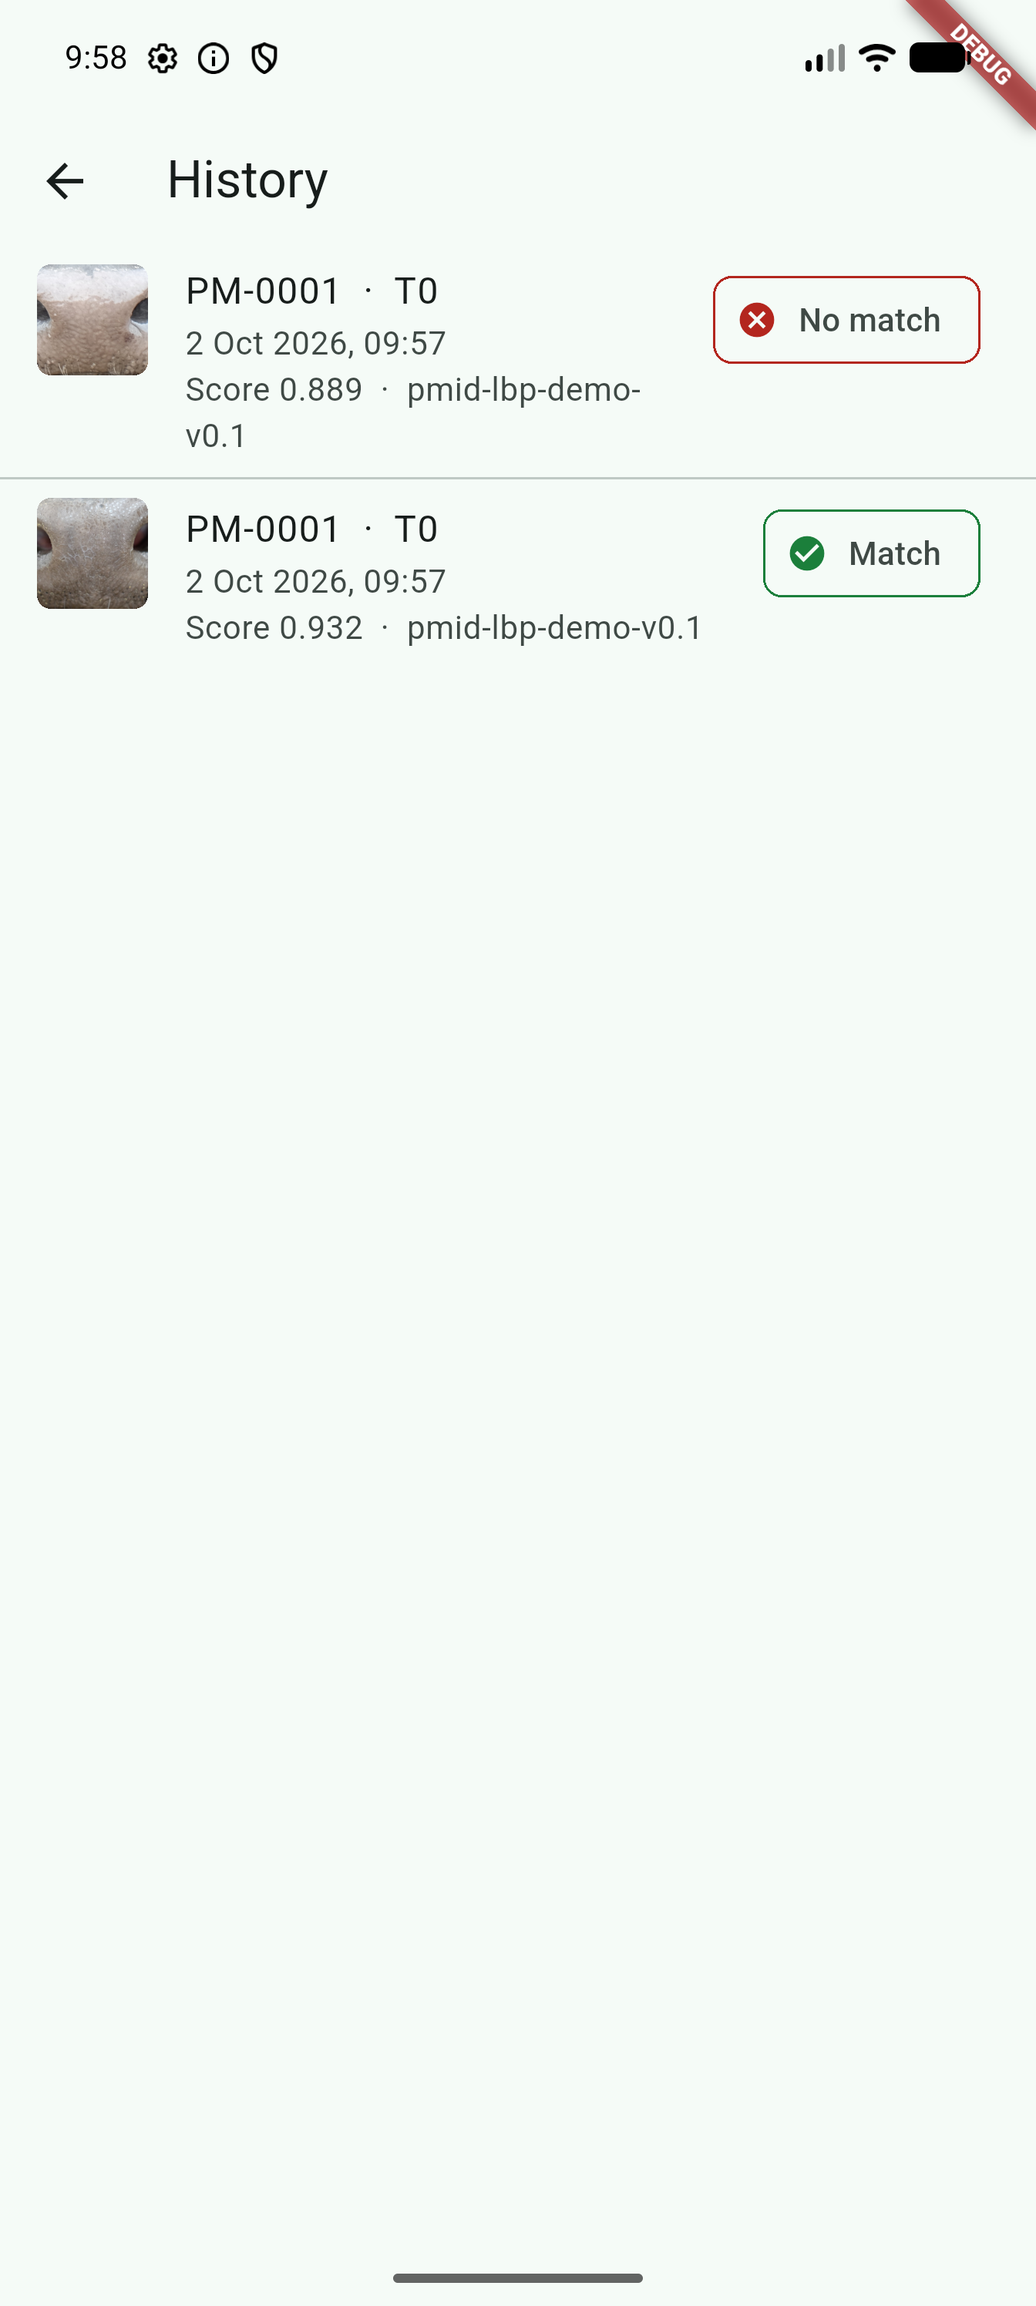
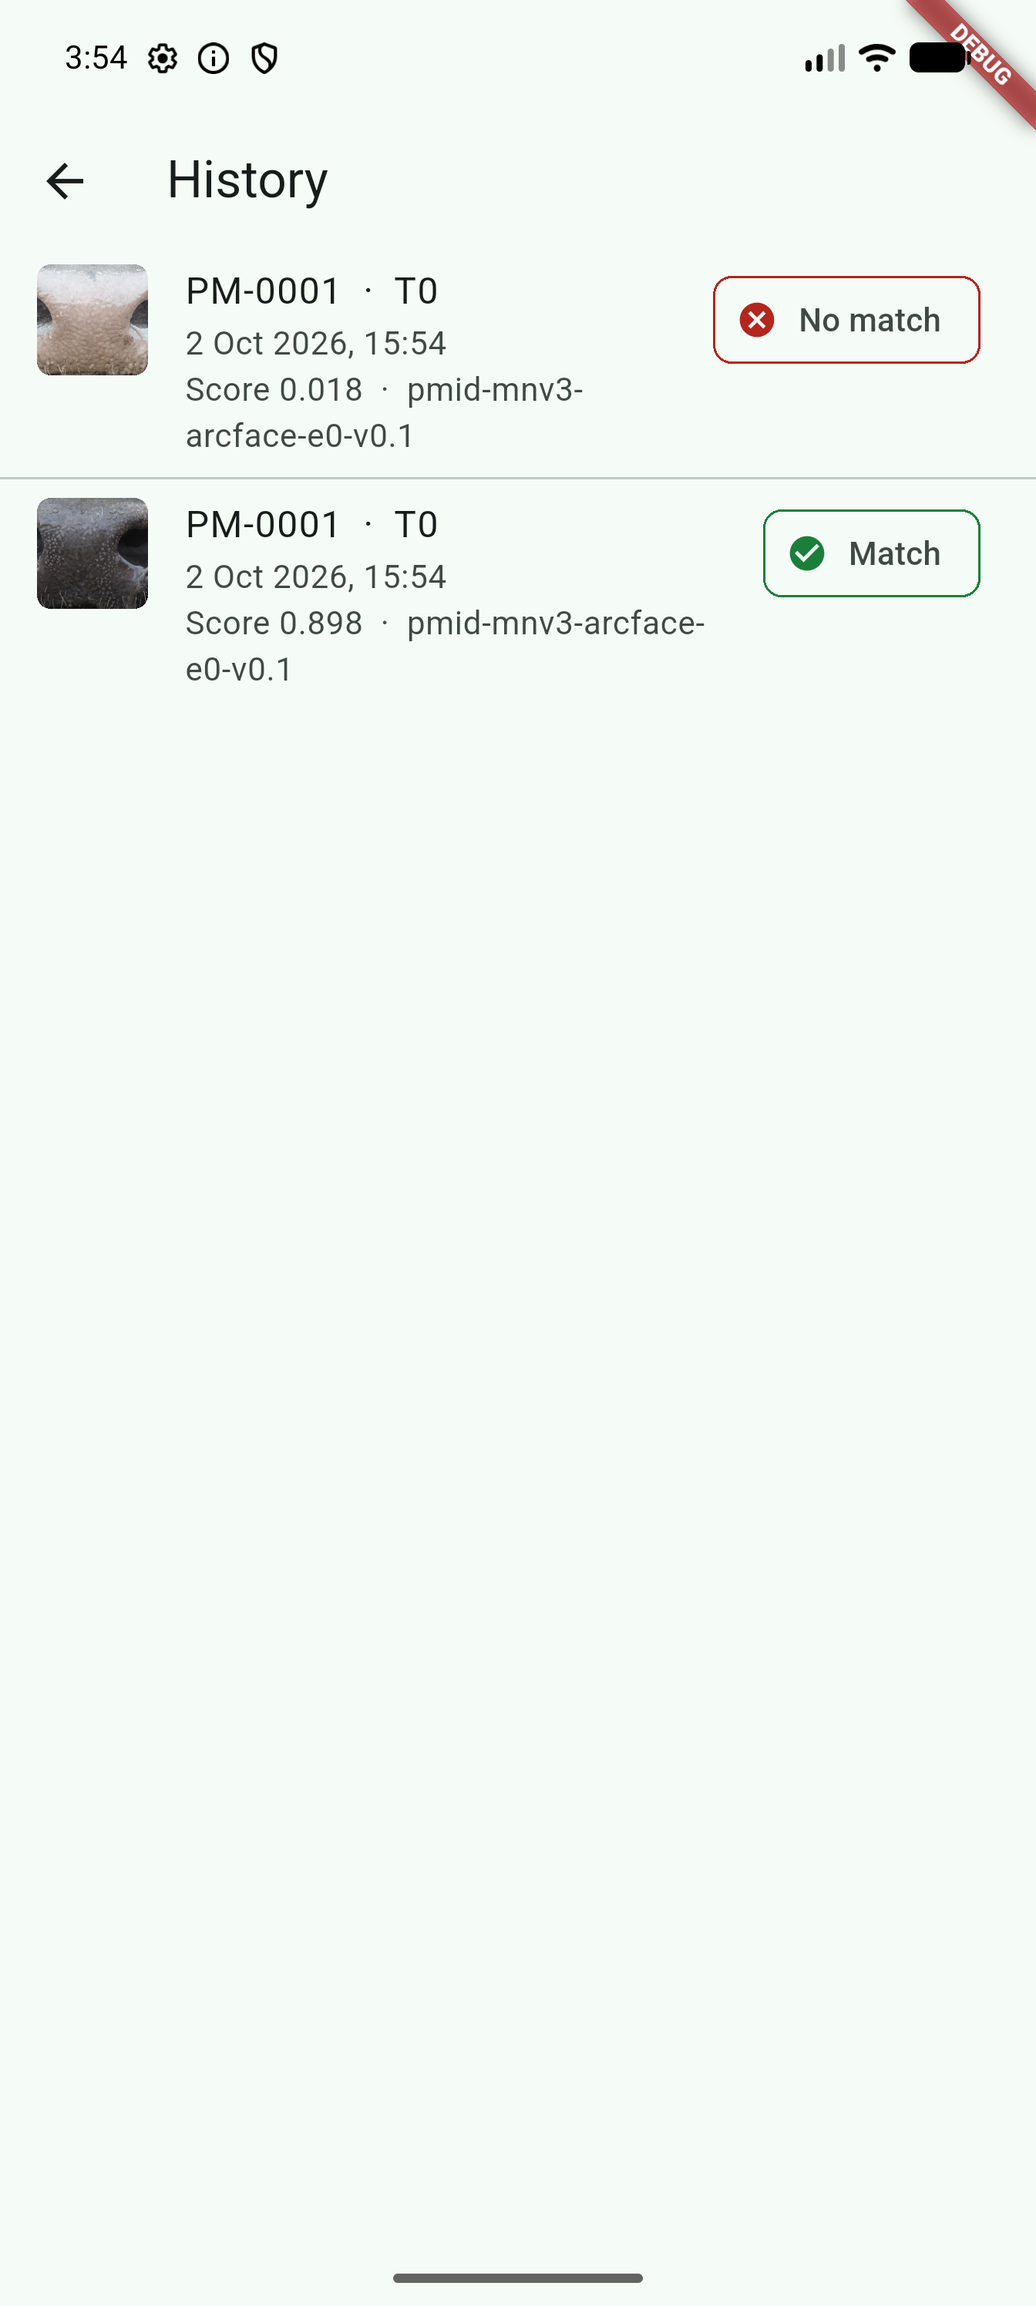
docs: update results and docs for the on-device model

diff --git a/README.md b/README.md
@@ -19,7 +19,8 @@ This repository contains the first working version of the software for that stud
 - Verification of a query image against a claimed animal, at time point T0, P0 or P1
 - Match / Review / No match decision from two thresholds, with the score, thresholds and versions shown
 - History of all results in local SQLite, each traceable to model, threshold and app versions
-- Clear labelling that the current encoder is a demonstration encoder, not the research model
+- The trained MobileNetV3-Large ArcFace model runs on the phone with TensorFlow Lite (LiteRT), fully offline; an LBP texture encoder is kept as a fallback
+- Clear labelling that the model was trained on public live-cattle images only and that post-mortem use has not been measured
 
 **Research pipeline (Python, `uv`)**
 
@@ -27,7 +28,7 @@ This repository contains the first working version of the software for that stud
 - Identity-disjoint train / dev / test split with leakage checks
 - Five verification models: SIFT, LBP, frozen ImageNet MobileNetV3-Large, and MobileNetV3-Large trained with softmax and with ArcFace
 - Thresholds set on dev animals, metrics on test animals, bootstrap confidence intervals over animals
-- Export of encoder settings and thresholds to the app, with a test that checks Python and Dart compute the same features
+- TFLite export with thresholds re-set on dev animals using the exact phone preprocessing, plus tests that check Python and Dart compute the same inputs and features
 
 ## Screenshots
 
@@ -58,7 +59,7 @@ flowchart LR
     end
 ```
 
-The app loads a manifest exported by the pipeline that names the encoder, its settings, the thresholds and the quality limits. `BiometricEncoder` is an interface. Today it is implemented by an LBP texture encoder in plain Dart. The trained MobileNetV3 model will be exported to TensorFlow Lite and added as a second implementation, without changes to the screens or storage. See [docs/architecture.md](docs/architecture.md).
+The app loads a manifest exported by the pipeline that names the encoder, its model file, the thresholds and the quality limits. `BiometricEncoder` is an interface with two implementations: `TfliteEncoder` runs the exported MobileNetV3-Large ArcFace model, and `LbpEncoder` is a plain-Dart fallback. Changing the model is a manifest and asset change; screens and storage stay the same. See [docs/architecture.md](docs/architecture.md).
 
 ## Repository structure
 
@@ -104,11 +105,15 @@ To run it without opening JupyterLab:
 uv run jupyter nbconvert --to notebook --execute --inplace ml/notebooks/01_e0_public_baseline.ipynb
 ```
 
-After a run, update the app manifest from the new results:
+The trained phone model is already in `mobile/assets/model/`. To rebuild it from scratch:
 
 ```bash
-uv run python ml/scripts/export_app_manifest.py
+uv run python ml/scripts/train_arcface.py         # retrains E0 ArcFace, checks it equals the notebook, saves weights
+uv run --script ml/scripts/export_tflite.py       # converts to TFLite in its own pinned environment, re-sets dev thresholds
+uv run python ml/scripts/export_app_manifest.py   # writes the app manifest (add --encoder lbp for the fallback)
 ```
+
+`export_tflite.py` runs in a separate environment because the converter (litert-torch 0.9.4) needs PyTorch below 2.14. The first run downloads about 1 GB of converter dependencies.
 
 Checks:
 
@@ -139,6 +144,7 @@ Checks:
 cd mobile
 flutter analyze
 flutter test
+flutter test integration_test    # needs a running emulator or phone; checks on-device model output and timing
 ```
 
 ## Initial results
@@ -148,7 +154,7 @@ Experiment E0, public live-cattle data only. 52 test animals never used for trai
 | Model | ROC-AUC | EER [95% CI] | TAR at dev FAR 1% threshold [95% CI] | Realised test FAR |
 |---|---|---|---|---|
 | SIFT matching | 0.968 | 7.7% [3.8, 10.2] | 75.1% [61.6, 87.1] | 0.18% |
-| LBP (runs in the app today) | 0.936 | 11.2% [6.3, 16.4] | 78.4% [69.2, 86.8] | 0.50% |
+| LBP (app fallback) | 0.936 | 11.2% [6.3, 16.4] | 78.4% [69.2, 86.8] | 0.50% |
 | MobileNetV3-Large, ImageNet, no training | 0.968 | 6.6% [3.6, 10.2] | 88.5% [82.1, 94.1] | 0.50% |
 | MobileNetV3-Large, softmax | 0.993 | 2.5% [0.9, 5.7] | 95.6% [91.3, 99.0] | 0.89% |
 | **MobileNetV3-Large, ArcFace (proposed)** | **0.994** | **2.2% [0.7, 5.5]** | **96.5% [92.5, 99.5]** | 0.87% |
@@ -162,12 +168,20 @@ What these numbers mean:
 
 Two independent full runs gave identical numbers. Details, figures and error analysis are in the notebook and [ml/experiments/README.md](ml/experiments/README.md).
 
+**The model on the phone.** The ArcFace model was exported to TensorFlow Lite (14.0 MB, float32) and scored again on the same dev and test animals with the exact resize the app performs. Thresholds for the app were set on dev animals with this pipeline.
+
+| | ROC-AUC | EER | TAR at dev FAR 1% threshold | Realised test FAR | TAR at dev FAR 0.1% | Realised test FAR |
+|---|---|---|---|---|---|---|
+| ArcFace, TFLite with phone preprocessing | 0.993 | 2.0% | 96.3% | 0.94% | 93.0% | 0.19% |
+
+On the Android emulator, the on-device output matched the laptop's TFLite output (cosine 1.000000 on a fixed test pattern), and one embedding took about 22 ms after a 71 ms first run. The emulator runs on a fast laptop, so this is not the timing of a low-cost phone; that is measured in the on-device tests of the study.
+
 ![ROC and DET curves](docs/figures/e0_roc_det.png)
 
 ## Deployment plan
 
-1. **Now: local offline prototype.** The Flutter app runs on Android with no network. Images, templates and results stay in app storage and SQLite. Encoder: LBP demonstration encoder with E0 dev thresholds.
-2. **Next: on-device research model.** Export the MobileNetV3-Large ArcFace model to TensorFlow Lite with reduced-precision weights, add it as a second `BiometricEncoder`, and ship it with a new manifest. Measure model size, inference time and agreement with desktop scores on both study phones.
+1. **Now: local offline prototype.** The Flutter app runs on Android with no network. Images, templates and results stay in app storage and SQLite. Encoder: the E0 ArcFace MobileNetV3-Large model in TensorFlow Lite, with thresholds set on E0 dev animals.
+2. **Next: on-device tests on the study phones.** Measure inference time on the two low-cost Android phones, try reduced-precision weights and report any change in scores, and replace the model with one trained on the study's development animals.
 3. **Detector.** Label muzzle and face boxes on pilot images and train a small YOLO detector, so the app crops the biometric region instead of using the centre square.
 4. **Optional synchronisation.** A small FastAPI and PostgreSQL service to collect records from the study phones and serve new model versions, only if the field study needs it. The app must keep working offline.
 5. **Research validation.** After ethics clearance and a facility agreement: pilot, then paired live and post-mortem capture, and experiments E1 to E7 on held-out animals. Thresholds will be set again on the study data.
@@ -180,14 +194,14 @@ Demonstrated:
 
 - the full offline capture, quality check, enrolment, verification and history workflow on Android
 - a leakage-controlled live-to-live evaluation on public data with measured, reproducible metrics
-- that the phone computes the same features as the research pipeline
+- the trained ArcFace model running on the phone, with the same output as on the laptop
 
 Not demonstrated:
 
 - any post-mortem result. No post-mortem images exist yet.
 - the face comparator, cross-phone effects or time since slaughter
 - performance on Rwandan cattle or smartphone images
-- the research model running on the phone; the app uses the weaker LBP demonstration encoder
+- on-device speed on a low-cost phone; timings so far come from an emulator on a laptop
 - automatic muzzle detection
 - suitability for insurance, traceability or any operational decision
 
@@ -202,6 +216,7 @@ The duplicate-identity cleaning found 7 of the 19 duplicates reported by BC et a
 | Baselines: SIFT, generic features, softmax MobileNetV3 | SIFT, frozen ImageNet MobileNetV3 and softmax MobileNetV3 run. DINOv2 is planned for the pilot sanity check |
 | MobileNetV3-Large + ArcFace, k-image templates, cosine similarity | Implemented and trained on public data; k = 1, 3, 5 reported |
 | Match / Review / No match from tau(FAR 1%) and tau(FAR 0.1%) | Implemented in Python and in the app |
+| On-device inference with TensorFlow Lite | E0 ArcFace model running in the app via LiteRT; output matches the laptop on the emulator; timing on low-cost study phones pending |
 | Offline Flutter app, SQLite, model versioning (FR1 to FR7, NFR5 to NFR8) | Implemented; export (FR3) and sync (FR8) are later increments |
 | E0 public-data baseline | Done |
 | E1 to E7 paired experiments | Planned, need field data |

diff --git a/docs/architecture.md b/docs/architecture.md
@@ -54,11 +54,16 @@ Analysis runs in a background isolate so the UI does not freeze while a photo is
 
 ### Inference layer
 
-`BiometricEncoder` is the seam between the app and the model. The current implementation, `LbpEncoder`, is a uniform LBP texture descriptor written in plain Dart. It is a **demonstration encoder**: it lets the full offline workflow run today, but it is not the research model, and `isResearchModel` returns false so the result screen says so.
+`BiometricEncoder` is the seam between the app and the model. It has two implementations:
 
-The research model (MobileNetV3-Large trained with ArcFace) will be exported to TensorFlow Lite and added as a second implementation of the same interface. The manifest names the encoder type, so switching is a manifest and asset change. Screens, controller and storage do not change (NFR7). Templates are stored with the model version, and the repository only compares a query with templates made by the same model, because embeddings from different models are not comparable.
+- `TfliteEncoder` runs `pmid-mnv3-arcface-e0-v0.1.tflite`, the MobileNetV3-Large ArcFace model exported by `ml/scripts/export_tflite.py`, through the `flutter_litert` plugin (LiteRT, formerly TensorFlow Lite) on the CPU. ImageNet normalisation is built into the model, so the app only resizes the whole image to 224 x 224 with an antialiased bilinear filter and passes raw RGB values. The interpreter is created inside the analysis isolate from the model bytes, because an interpreter cannot be moved between isolates.
+- `LbpEncoder` is a uniform LBP texture descriptor in plain Dart. It is kept as a fallback (`export_app_manifest.py --encoder lbp`) and is not the research model, so its results say so.
 
-The Dart image operations, quality measures and LBP encoder mirror `ml/src/postmortemid/imageops.py`, `quality.py` and `lbp.py`. `mobile/test/parity_test.dart` checks that both implementations produce the same numbers on a fixture generated by `ml/scripts/export_parity_fixture.py`. This is why the thresholds measured in the notebook are valid for the phone.
+The manifest names the encoder type and model file, so switching is a manifest and asset change. Screens, controller and storage do not change (NFR7). Templates are stored with the model version, and the repository only compares a query with templates made by the same model, because embeddings from different models are not comparable.
+
+The Dart image operations, quality measures and LBP encoder mirror `ml/src/postmortemid/imageops.py`, `quality.py` and `lbp.py`. `mobile/test/parity_test.dart` checks that both produce the same numbers, including the CNN input resize, on a fixture generated by `ml/scripts/export_parity_fixture.py`. `mobile/integration_test/model_parity_test.dart` runs on a device or emulator and checks that the on-device TFLite output matches the laptop's for a fixed test pattern, and prints the inference time. Together these are why the dev thresholds computed on the laptop are valid on the phone.
+
+Camera photos are cropped to the square guide area before analysis. Until a detector finds the muzzle, this makes a phone photo closer to the muzzle crops the model was trained on.
 
 ### Local persistence
 
@@ -85,7 +90,7 @@ No owner or farmer data are stored. Animals with linkage status *excluded* are n
 | `verification.py` | Enrolment and query roles, templates, genuine and impostor scoring, Rank-1, open-set rejection |
 | `metrics.py` | ROC-AUC, EER, thresholds at a target FAR, TAR, FAR, FRR, bootstrap intervals over animals |
 | `models.py`, `training.py` | MobileNetV3-Large embedder, ArcFace and softmax heads, training loop |
-| `sift.py`, `lbp.py`, `quality.py`, `imageops.py` | Baselines, demo encoder and quality measures |
+| `sift.py`, `lbp.py`, `quality.py`, `imageops.py` | Baselines, LBP fallback encoder, quality measures and the shared image resize |
 | `e0.py` | The E0 experiment: scoring, calibration on dev, reporting on test |
 
 The environment is managed with `uv`, and `uv.lock` pins every dependency.

diff --git a/docs/model.md b/docs/model.md
@@ -50,19 +50,29 @@ Every verification stored by the app records three versions:
 
 | Version | Example | Meaning |
 |---|---|---|
-| Model | `pmid-lbp-demo-v0.1` | Encoder that produced the embeddings |
-| Threshold file | `e0-lbp-dev-v0.1` | Where tau(FAR 1%) and tau(FAR 0.1%) came from |
+| Model | `pmid-mnv3-arcface-e0-v0.1` | Encoder that produced the embeddings |
+| Threshold file | `e0-arcface-tflite-dev-v0.1` | Where tau(FAR 1%) and tau(FAR 0.1%) came from |
 | App | `0.1.0+1` | Flutter build |
 
 A template can only be compared with a query from the same model version.
 
 ## What runs on the phone today
 
-The app currently uses `pmid-lbp-demo-v0.1`, a uniform LBP histogram descriptor (64 x 64 grayscale, 4 x 4 grid, 944 dimensions), because the MobileNetV3 model has not yet been exported to TensorFlow Lite. LBP is a real, measured baseline in the notebook, and its thresholds come from the same E0 dev animals, but it is weaker than the CNN models and it is **not** the research model. The app says this on the home screen and on every result.
+The app runs `pmid-mnv3-arcface-e0-v0.1.tflite`, the ArcFace model above, exported to TensorFlow Lite (LiteRT) in float32 (14.0 MB). ImageNet normalisation is part of the exported model. The phone resizes the whole image to 224 x 224 with an antialiased bilinear filter, the same filter PIL uses and close to the training resize.
+
+The export was checked in three steps:
+
+1. TFLite against PyTorch on 50 images: cosine similarity 1.000000 at the lowest.
+2. Dev and test animals scored again with the TFLite model and the phone's resize. Thresholds for the app (tau(FAR 1%) = 0.399, tau(FAR 0.1%) = 0.541) come from dev animals. On test animals: ROC-AUC 0.993, EER 2.0%, TAR 96.3% at a realised FAR of 0.94%, close to the notebook's PyTorch numbers.
+3. On the Android emulator, the on-device embedding of a fixed test pattern matched the laptop's (cosine 1.000000). One embedding took about 22 ms after a 71 ms first run; this is an emulator on a laptop, not a low-cost phone.
+
+A first export used an area-average resize instead. It repeats pixels when enlarging, and since half the public crops are smaller than 224 px, the inputs looked different from training: test EER rose to 5.2% and the realised FAR at the 1% target was 3.5%. Matching the training resize fixed this. Both runs are in `ml/experiments/README.md`.
+
+The LBP histogram encoder (`pmid-lbp-demo-v0.1`) is still in the app as a fallback and can be selected with `export_app_manifest.py --encoder lbp`.
 
 ## Current limitations
 
 - All measurements are live-to-live on public data. Post-mortem performance is unknown.
-- No detector yet; the app uses the centre square of the photo, which the camera guide asks the user to fill with the muzzle.
-- The ArcFace model is trained and evaluated in Python but not yet on the phone.
+- No detector yet. Camera photos are cropped to the square guide the user fills with the muzzle; imported images are used whole, like the public crops.
+- Inference time on a low-cost phone has not been measured yet, and reduced-precision weights have not been tried.
 - The quality limits are starting values from public images and will be checked against pilot images.

diff --git a/docs/experiment-plan.md b/docs/experiment-plan.md
@@ -12,7 +12,7 @@ This document separates what has been run (E0) from what the research study will
 | Enrolment | First 3 images in capture order form the template; all later images are queries |
 | Comparisons | Each query against its own template (genuine) and every other template in the split (impostor) |
 | Thresholds | tau(FAR 1%) and tau(FAR 0.1%) set on dev impostor scores, then applied unchanged to test |
-| Models | SIFT matching; LBP histogram (on-device demo encoder); frozen ImageNet MobileNetV3-Large; MobileNetV3-Large trained with softmax; MobileNetV3-Large trained with ArcFace (proposed) |
+| Models | SIFT matching; LBP histogram (app fallback encoder); frozen ImageNet MobileNetV3-Large; MobileNetV3-Large trained with softmax; MobileNetV3-Large trained with ArcFace (proposed) |
 | Metrics | ROC-AUC, EER, TAR at calibrated FAR 1% and 0.1% with realised test FAR, oracle TAR, Rank-1, open-set rejection, bootstrap 95% CIs over test animals |
 | Config | `ml/configs/e0.json` |
 | Notebook | `ml/notebooks/01_e0_public_baseline.ipynb` |
@@ -51,5 +51,5 @@ For the paired data, animals are split into development and test sets within eac
 
 1. Re-run the E0 protocol with the cleaned identity list from BC et al. (2026) if it becomes available, and compare.
 2. Label muzzle and face boxes on pilot images and train a small YOLO detector (detection is evaluated separately from verification).
-3. Export the ArcFace model to TensorFlow Lite, add it as a second `BiometricEncoder`, and measure on-device size, time and score agreement.
+3. Measure on-device time and score agreement on the two study phones (the export and an emulator check are done), and test reduced-precision weights.
 4. Run the pilot DINOv2 sanity check on the first linked live and post-mortem pairs, as described in the proposal.

diff --git a/ml/experiments/README.md b/ml/experiments/README.md
@@ -44,6 +44,23 @@ Notes:
 - The weakest genuine scores come from blurred queries of one animal; 16 rejected genuine queries come from 4 animals.
 - LBP dev thresholds exported to the app: tau(FAR 1%) = 0.9199, tau(FAR 0.1%) = 0.9260 (`e0-lbp-dev-v0.1`).
 
+## E0-c: ArcFace exported to TFLite for the phone
+
+| | |
+|---|---|
+| Date | 2 October 2026 |
+| Model | E0-b ArcFace weights, retrained with `ml/scripts/train_arcface.py` (test metrics checked equal to the notebook before saving) |
+| Export | `ml/scripts/export_tflite.py`, litert-torch 0.9.4 with torch 2.13 in an isolated environment, float32, 14.0 MB, ImageNet normalisation inside the model |
+| Check | TFLite against PyTorch on 50 images: minimum cosine 1.000000 |
+
+First attempt (not shipped): the phone resized with an area average, which repeats pixels when enlarging small crops. Test: ROC-AUC 0.982, EER 5.2%, TAR 92.3% at a realised FAR of 3.5% (target 1%). The inputs no longer looked like the training images.
+
+Second attempt (shipped): antialiased bilinear resize, PIL's filter in floats, matching training. Dev thresholds tau(FAR 1%) = 0.3991 and tau(FAR 0.1%) = 0.5415 (`e0-arcface-tflite-dev-v0.1`). Test: ROC-AUC 0.993, EER 2.0%, TAR 96.3% at a realised FAR of 0.94%, TAR 93.0% at a realised FAR of 0.19% (target 0.1%), Rank-1 96.9%. Full numbers in `e0_tflite.json`.
+
+On-device check (Android emulator on an Apple M5 Pro laptop, `flutter test integration_test`): output for a fixed test pattern matched the laptop (cosine 1.000000); 71 ms first inference, 21.5 ms mean over 10 runs, excluding image decoding. Not representative of a low-cost phone.
+
+App check on the emulator: a genuine test-split query scored 0.898 (Match) and an impostor 0.018 (No match).
+
 ## App quality limits (from E0 data)
 
 | | |
